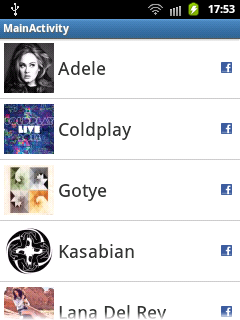
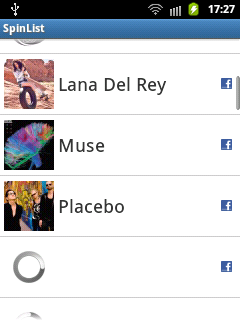
Add ViewHolder pattern and data caching

diff --git a/src/com/github/dtitov/spinlist/LazyAdapter.java b/src/com/github/dtitov/spinlist/LazyAdapter.java
@@ -19,6 +19,7 @@ import java.util.ArrayList;
 
 import android.app.Activity;
 import android.content.Context;
+import android.graphics.drawable.BitmapDrawable;
 import android.view.LayoutInflater;
 import android.view.View;
 import android.view.ViewGroup;
@@ -35,19 +36,32 @@ import android.widget.TextView;
 public class LazyAdapter extends BaseAdapter {
 	private Activity activity;
 	private LayoutInflater layoutInflater;
-	private ArrayList<String> folks;
+	private ArrayList<String> names;
+	private FbUser[] folks; // array for caching users
 
 	/**
 	 * 
 	 * Loading of all necessary objects: activity and user list. Getting the
 	 * inflater.
 	 */
-	public LazyAdapter(Activity activity, ArrayList<String> folks) {
+	public LazyAdapter(Activity activity, ArrayList<String> names) {
 		super();
 		this.activity = activity;
-		this.folks = folks;
+		this.names = names;
+		this.folks = new FbUser[this.names.size()];
 		layoutInflater = (LayoutInflater) activity
 				.getSystemService(Context.LAYOUT_INFLATER_SERVICE);
+	}
+
+	/**
+	 * 
+	 * Using ViewHolder patter we save time by avoiding calling findViewById
+	 * each time we need a view.
+	 * 
+	 */
+	private static class ViewHolder {
+		public TextView textView;
+		public ProgressBar spinner;
 	}
 
 	/**
@@ -55,29 +69,71 @@ public class LazyAdapter extends BaseAdapter {
 	 * null) and passes the View to AyncTask processing.
 	 */
 	public View getView(int position, View convertView, ViewGroup parent) {
+		FbUser cachedUser = folks[position]; // trying to get a user from cache
+
 		View item = convertView;
+		ViewHolder viewHolder;
+
+		/**
+		 * If item has not been created yet, we inflate it and pass its personal
+		 * ViewHolder as a tag parameter. Otherwise we just get an existing
+		 * ViewHolder.
+		 */
 		if (item == null) {
 			item = layoutInflater.inflate(R.layout.item_user, null);
+			viewHolder = new ViewHolder();
+			viewHolder.textView = (TextView) item
+					.findViewById(R.id.textViewUser);
+			viewHolder.spinner = (ProgressBar) item
+					.findViewById(R.id.progressBar);
+			item.setTag(viewHolder);
+		} else {
+			viewHolder = (ViewHolder) item.getTag();
 		}
-		TextView textViewMate = (TextView) item.findViewById(R.id.textViewUser);
-		ProgressBar spinner = (ProgressBar) item.findViewById(R.id.progressBar);
-		new FetchDataTask(activity, textViewMate, spinner, folks.get(position))
-				.execute(new Void[] {});
+
+		/**
+		 * If the current user is not cached yet, we execute async task for
+		 * retreiving the information. Otherwise we just load data from the
+		 * cached object.
+		 */
+		if (cachedUser == null) {
+			viewHolder.textView.setText("");
+			viewHolder.textView.setCompoundDrawablesWithIntrinsicBounds(
+					null,
+					null,
+					activity.getResources().getDrawable(
+							R.drawable.facebook_icon), null);
+			viewHolder.spinner.setVisibility(View.VISIBLE);
+			new FetchDataTask(activity, this, position, viewHolder.textView,
+					viewHolder.spinner, names.get(position))
+					.execute(new Void[] {});
+		} else {
+			viewHolder.textView.setText(cachedUser.getName());
+			viewHolder.spinner.setVisibility(View.GONE);
+			viewHolder.textView.setCompoundDrawablesWithIntrinsicBounds(
+					new BitmapDrawable(activity.getResources(), cachedUser
+							.getBitmap()), null, activity.getResources()
+							.getDrawable(R.drawable.facebook_icon), null);
+		}
 		return item;
 	}
 
 	@Override
 	public int getCount() {
-		return folks.size();
+		return names.size();
 	}
 
 	@Override
 	public Object getItem(int position) {
-		return folks.get(position);
+		return names.get(position);
 	}
 
 	@Override
 	public long getItemId(int position) {
 		return position;
+	}
+
+	public FbUser[] getFolks() {
+		return folks;
 	}
 }

diff --git a/src/com/github/dtitov/spinlist/FetchDataTask.java b/src/com/github/dtitov/spinlist/FetchDataTask.java
@@ -13,7 +13,7 @@
  * See the License for the specific language governing permissions and
  * limitations under the License.
  */
- package com.github.dtitov.spinlist;
+package com.github.dtitov.spinlist;
 
 import java.io.BufferedInputStream;
 import java.io.IOException;
@@ -39,17 +39,21 @@ import android.widget.TextView;
  */
 public class FetchDataTask extends AsyncTask<Void, Void, FbUser> {
 	private Activity activity;
-	private TextView textView;
+	private LazyAdapter adapter;
+	private int position;
+	private TextView textViewMate;
 	private ProgressBar spinner;
 	private String id;
 
 	/**
 	 * Get necessary UI objects.
 	 */
-	public FetchDataTask(Activity activity, TextView textView,
-			ProgressBar spinner, String id) {
+	public FetchDataTask(Activity activity, LazyAdapter adapter, int position,
+			TextView textView, ProgressBar spinner, String id) {
 		this.activity = activity;
-		this.textView = textView;
+		this.adapter = adapter;
+		this.position = position;
+		this.textViewMate = textView;
 		this.spinner = spinner;
 		this.id = id;
 	}
@@ -92,10 +96,16 @@ public class FetchDataTask extends AsyncTask<Void, Void, FbUser> {
 	@Override
 	protected void onPostExecute(FbUser result) {
 		super.onPostExecute(result);
-		textView.setText(result.getName());
+		adapter.getFolks()[position] = result; // caching current user by it's
+												// position
+		textViewMate.setText(result.getName());
 		spinner.setVisibility(View.GONE);
-		textView.setCompoundDrawablesWithIntrinsicBounds(new BitmapDrawable(
-				activity.getResources(), result.getBitmap()), null, activity
-				.getResources().getDrawable(R.drawable.facebook_icon), null);
+		textViewMate
+				.setCompoundDrawablesWithIntrinsicBounds(
+						new BitmapDrawable(activity.getResources(), result
+								.getBitmap()),
+						null,
+						activity.getResources().getDrawable(
+								R.drawable.facebook_icon), null);
 	}
 }
